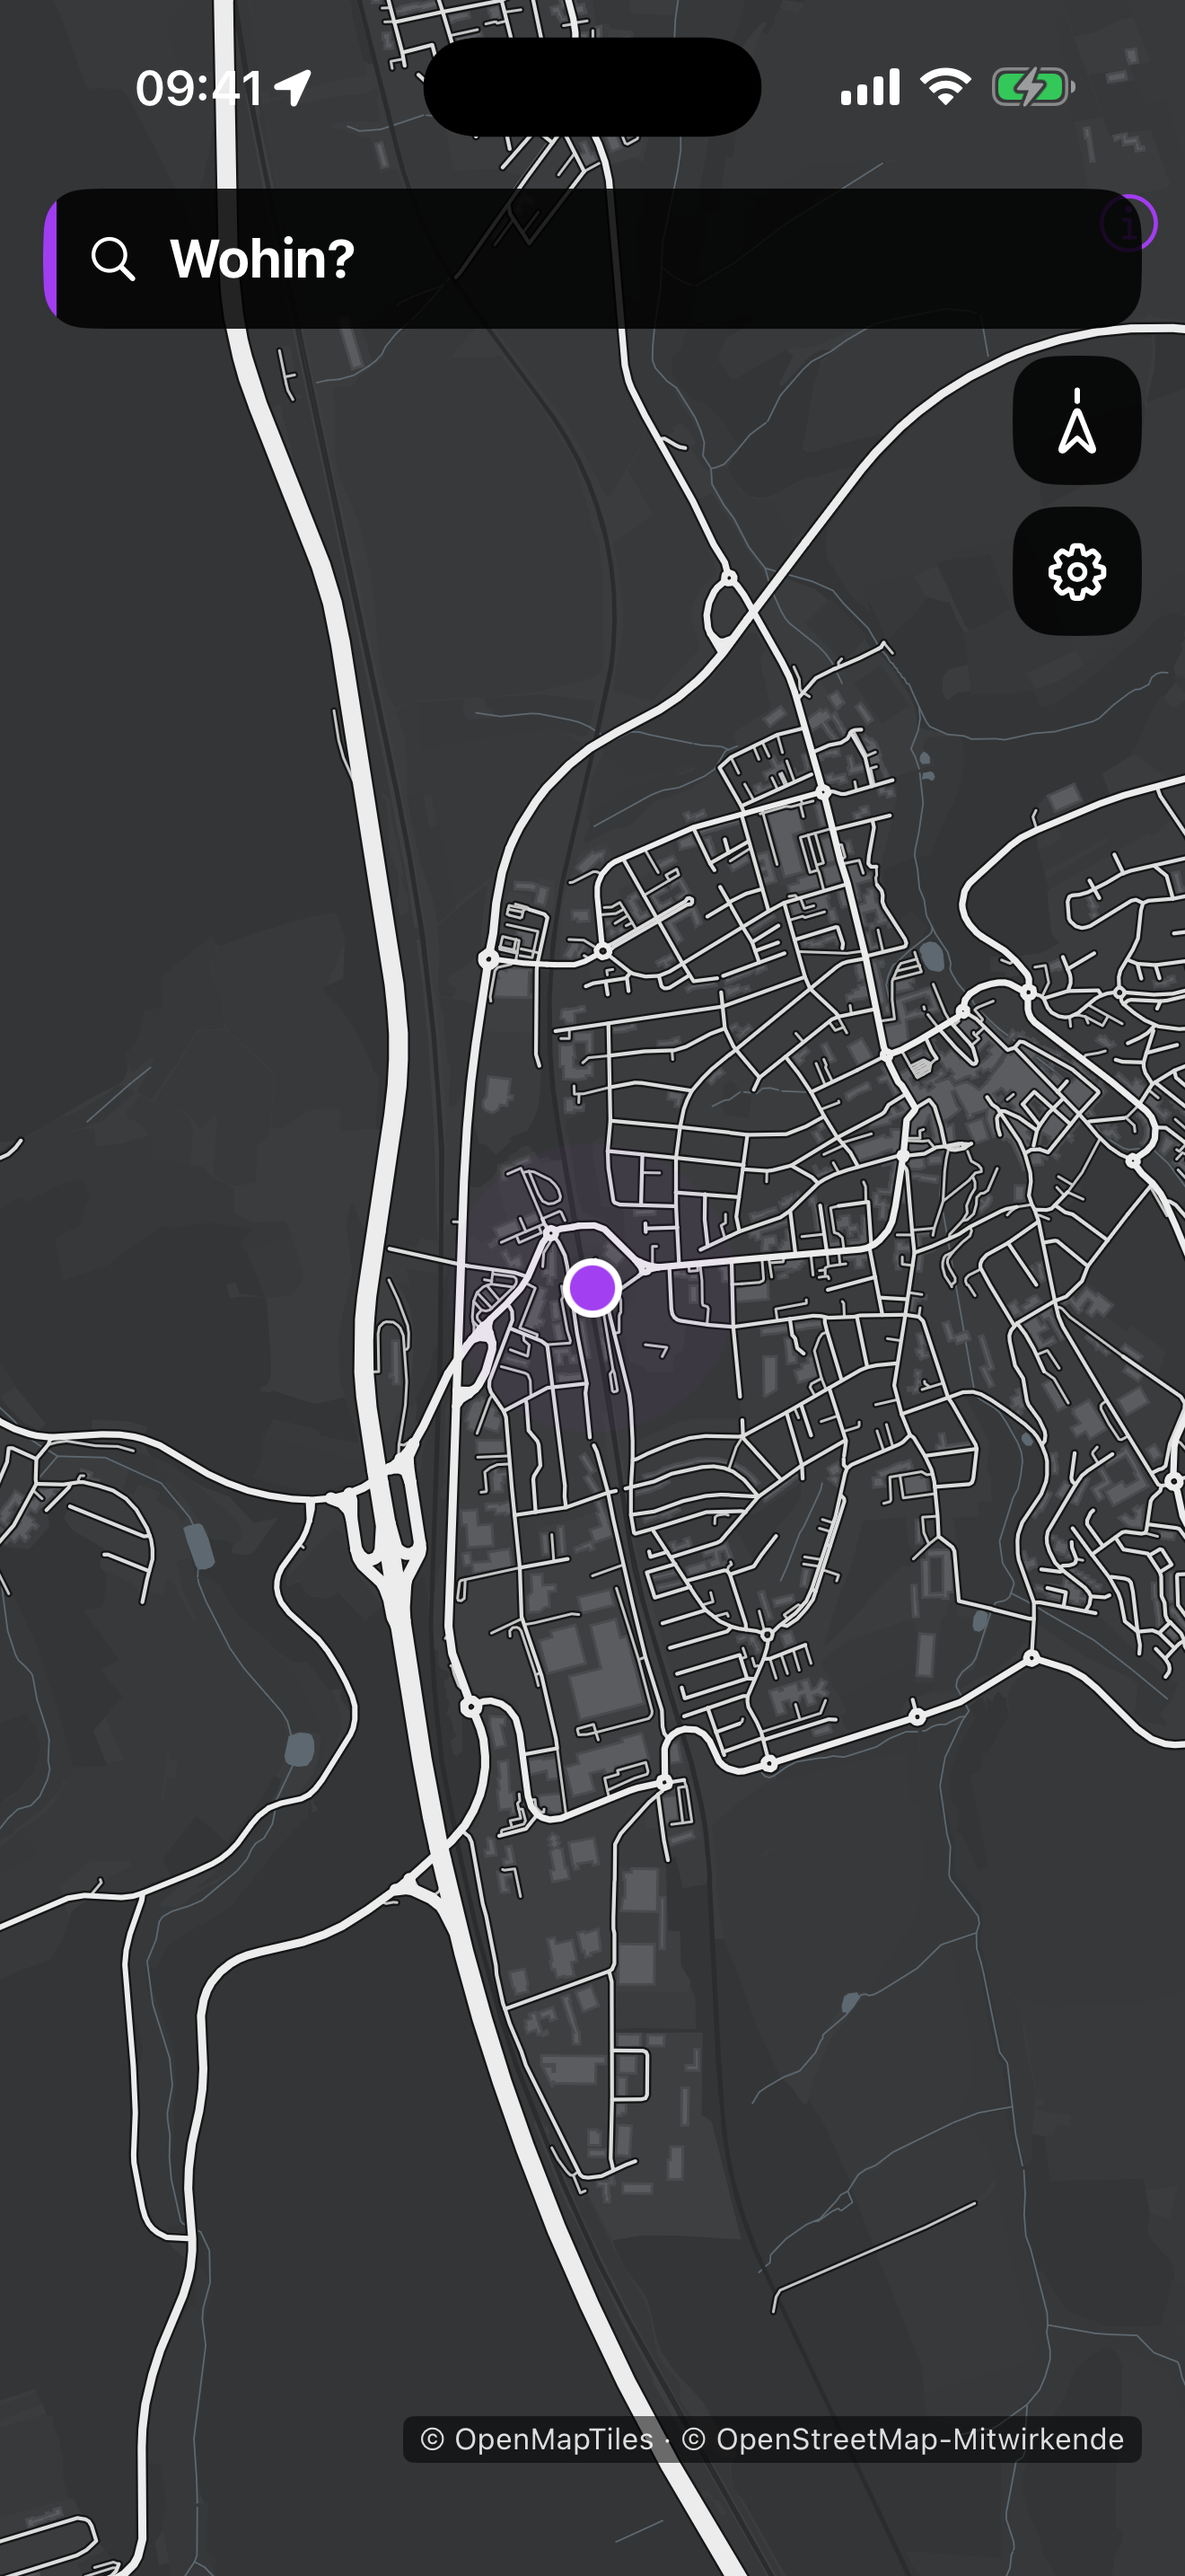
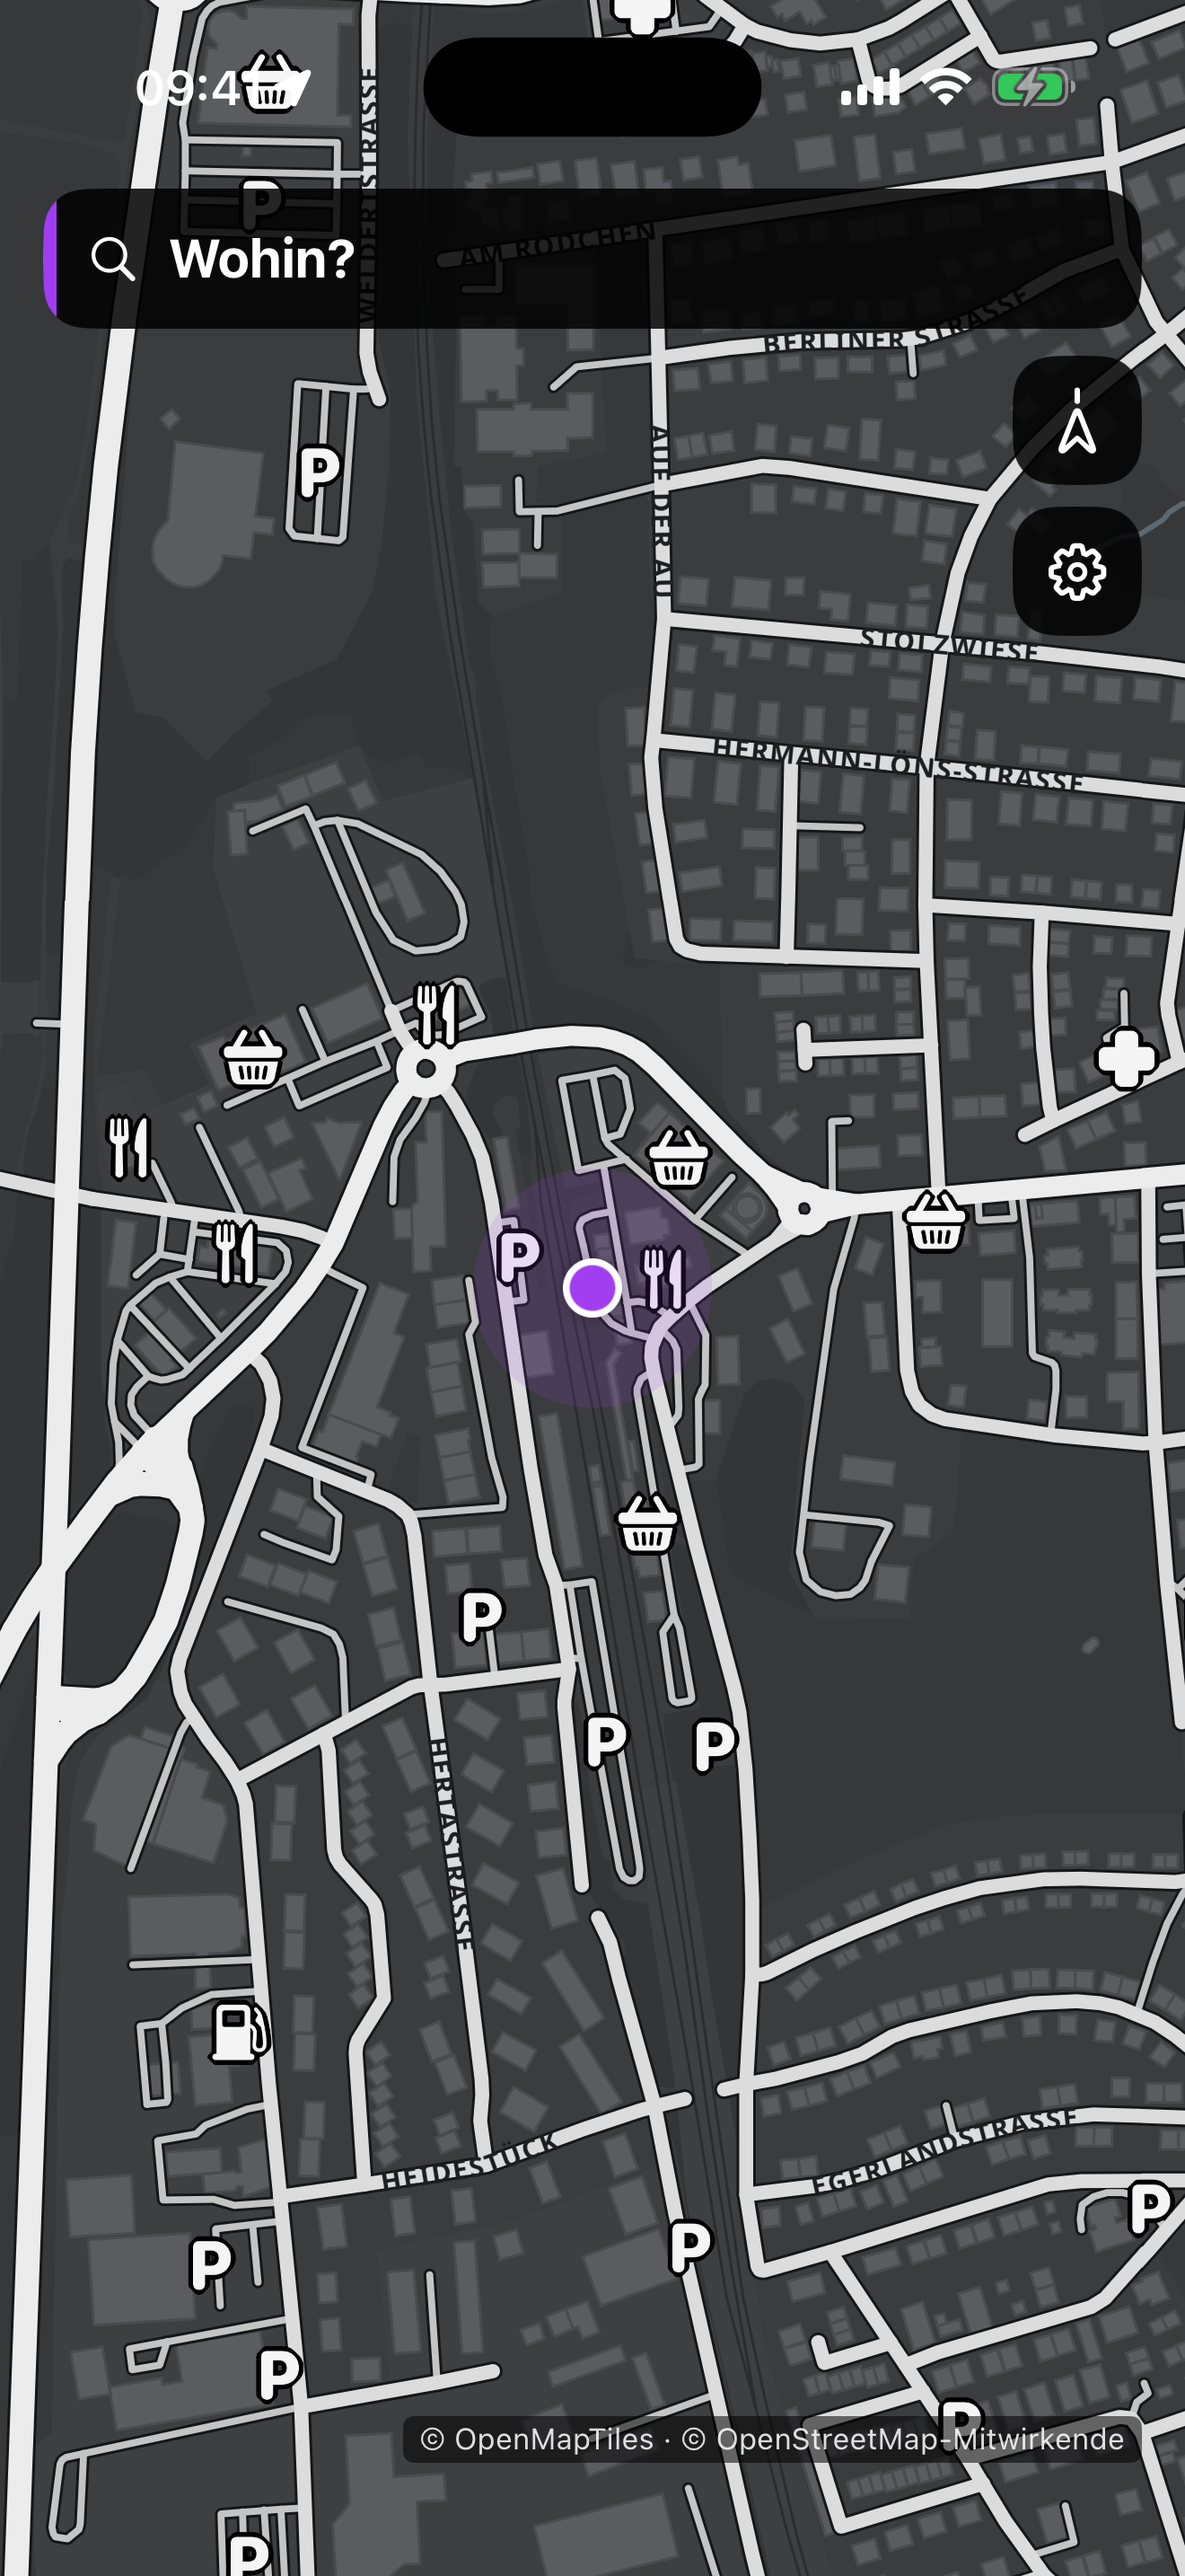
GM-027: CarPlay-Vorschau größer (weniger Rand)

diff --git a/App/CarPlaySceneDelegate.swift b/App/CarPlaySceneDelegate.swift
@@ -337,8 +337,9 @@ final class CarMapViewController: UIViewController, MLNMapViewDelegate {
             if isNew && !navigating && !routes.isEmpty {
                 // GM-027: Routen-Vorschau von iOS belegt links knapp die halbe Breite – Strecke rechts davon einpassen
                 let safe = view.safeAreaInsets
-                let left: CGFloat = safe.left + view.bounds.width * 0.58 + 30
-                overlay?.fit(routes: routes, padding: UIEdgeInsets(top: safe.top + 50, left: left, bottom: safe.bottom + 30, right: safe.right + 80))
+                // Fenster ist nur ~400 pt breit: knapp rechts vom iOS-Fenster (endet bei ~55 %) bis vor die Kartenknöpfe
+                let left: CGFloat = safe.left + view.bounds.width * 0.56 + 10
+                overlay?.fit(routes: routes, padding: UIEdgeInsets(top: safe.top + 24, left: left, bottom: safe.bottom + 14, right: safe.right + 58))
             }
         }
         self.navigating = navigating
